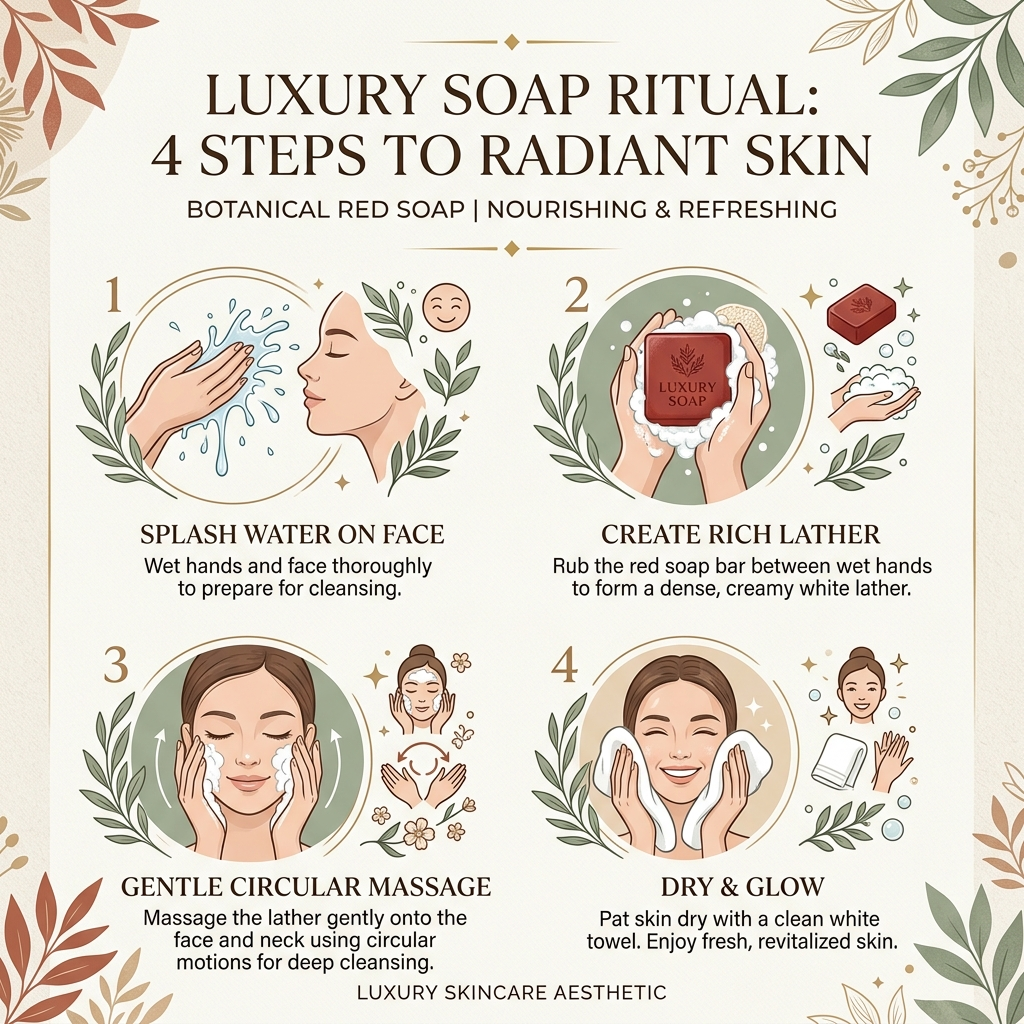
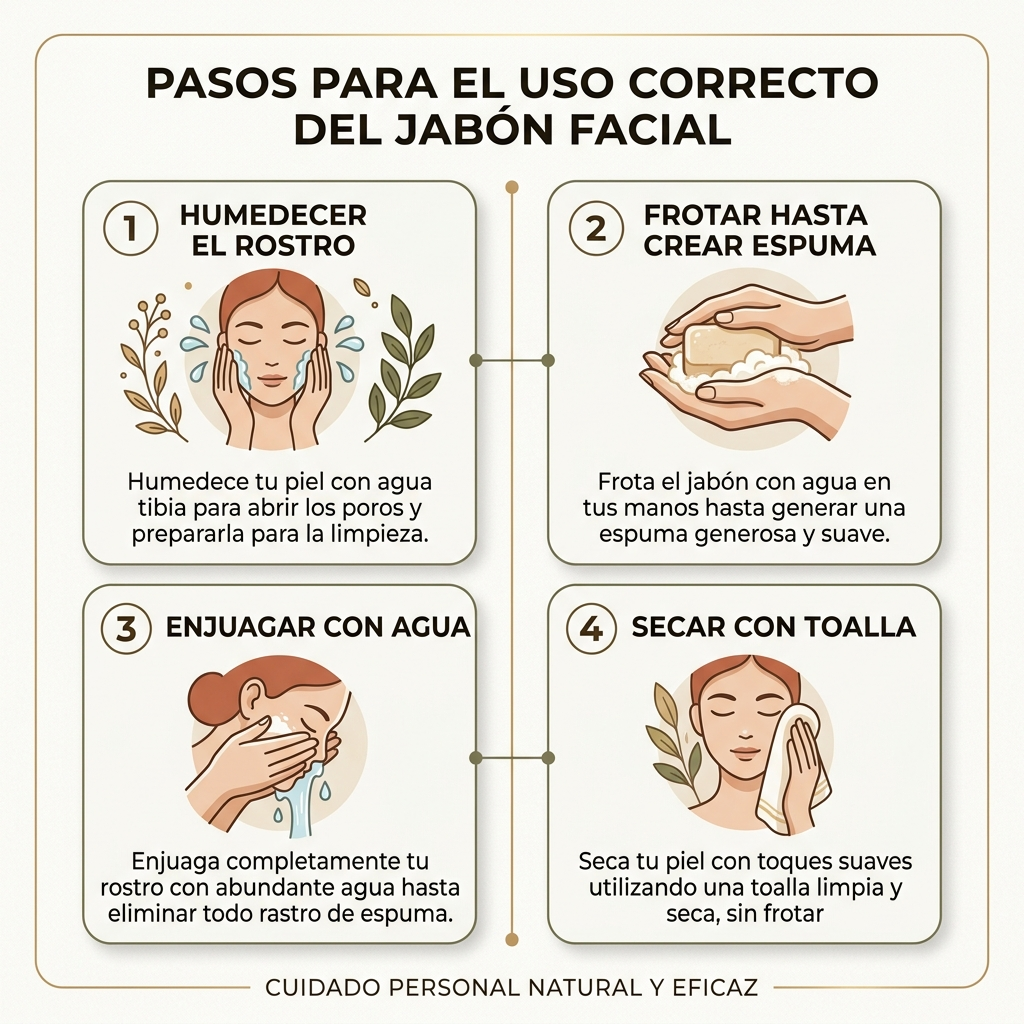
1.2
b

diff --git a/saviaroja/index.html b/saviaroja/index.html
@@ -24,10 +24,10 @@
             <nav>
                 <button class="tab-btn active" onclick="showTab('home')">Inicio</button>
                 <button class="tab-btn" onclick="showTab('budget')">Presupuesto</button>
-                <button class="tab-btn" onclick="showTab('strategy')">Estrategia</button>
-                <button class="tab-btn" onclick="showTab('comms')">Comunicación</button>
-                <button class="tab-btn" onclick="showTab('project')">Proyecto</button>
-                <button class="tab-btn" onclick="showTab('analysis')">Análisis</button>
+                <button class="tab-btn" onclick="showTab('strategy')" style="display: none;">Estrategia</button>
+                <button class="tab-btn" onclick="showTab('comms')" style="display: none;">Comunicación</button>
+                <button class="tab-btn" onclick="showTab('project')" style="display: none;">Proyecto</button>
+                <button class="tab-btn" onclick="showTab('analysis')" style="display: none;">Análisis</button>
             </nav>
         </header>
 
